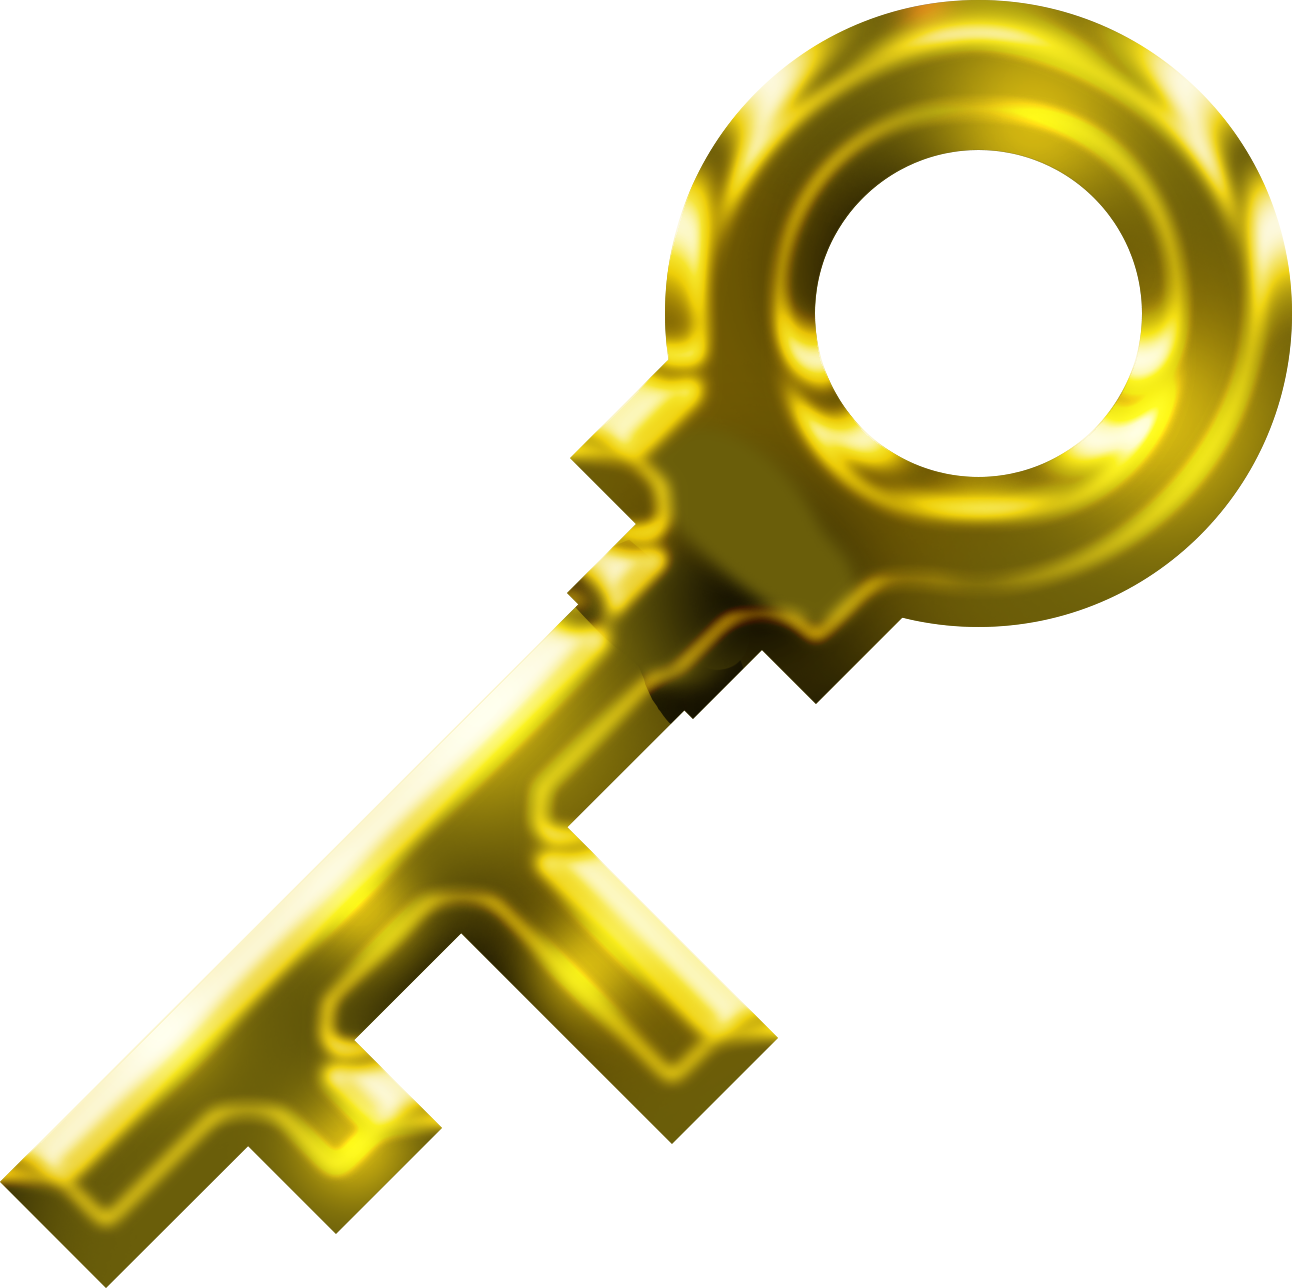
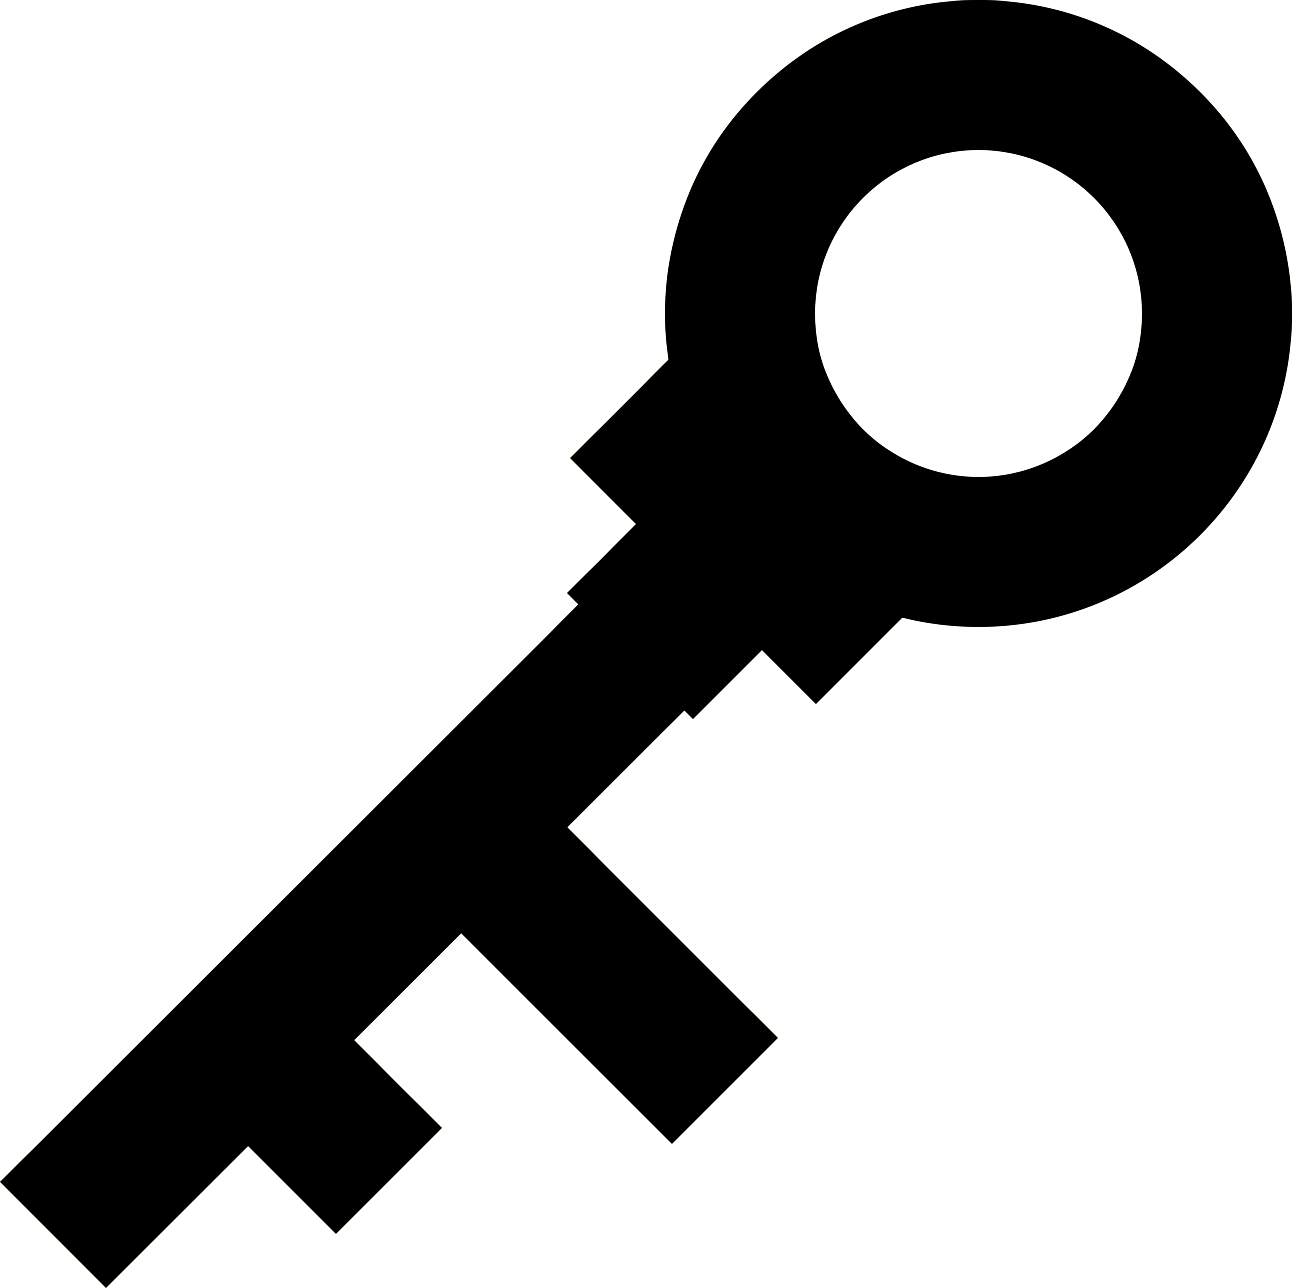
docs아이콘변경

Changed region(s): [[0.0, 0.0, 1.0, 1.0]]

diff --git a/frontend/pages/docs.js b/frontend/pages/docs.js
@@ -137,7 +137,8 @@ export default function Documentation() {
                     className={styles.card}
                     onClick={() => handleScrollToSection("start")}
                   >
-                    <div className={styles.cardicon}></div>
+                    
+                    <div style={{height:'200px', alignContent: 'center'}}><div className={styles.cardicon}/></div>
                     <div className={styles.cardtext}>
                       <h2>시작 하기</h2>
                       <p style={{ color: "#444", fontSize: "20px" }}>Get start</p>
@@ -148,7 +149,7 @@ export default function Documentation() {
                     className={styles.card}
                     onClick={handleNavigateToSetting}
                   >
-                    <div style={{padding:' 40px', alignContent: 'center'}}><div className={styles.cardicon2}></div></div>
+                    <div style={{height:'200px', alignContent: 'center'}}><div className={styles.cardicon2}/></div>
                     <div className={styles.cardtext}>
                       <h2>Key 발급</h2>
                       <p style={{ color: "#444", fontSize: "20px" }}>Get Key</p>
@@ -170,7 +171,7 @@ export default function Documentation() {
                   <span className={styles.fileFormat}>.mp3</span>
                   <span className={styles.fileFormat}>.m4a</span>
                   <span className={styles.fileFormat}
-                    style={{background:'red', width:'max-content'}}>YouTube URL</span>
+                    style={{width:'max-content'}}>YouTube URL</span>
                 </div>
                 <p>10MB 이하의 음성 파일</p>
               </div>

diff --git a/frontend/styles/Docs.module.css b/frontend/styles/Docs.module.css
@@ -151,10 +151,9 @@
 }
 
 .card .cardicon {
-  background-image: url(./images/starticon.png);
-  height: 150px;
-  width: 150px;
-  padding: 40px;
+  background-image: url(../public/images/docsstarticon.png);
+  height: 140px;
+  width: 195px;
   background-repeat: no-repeat;
   background-position: top center;
   background-size: cover;
